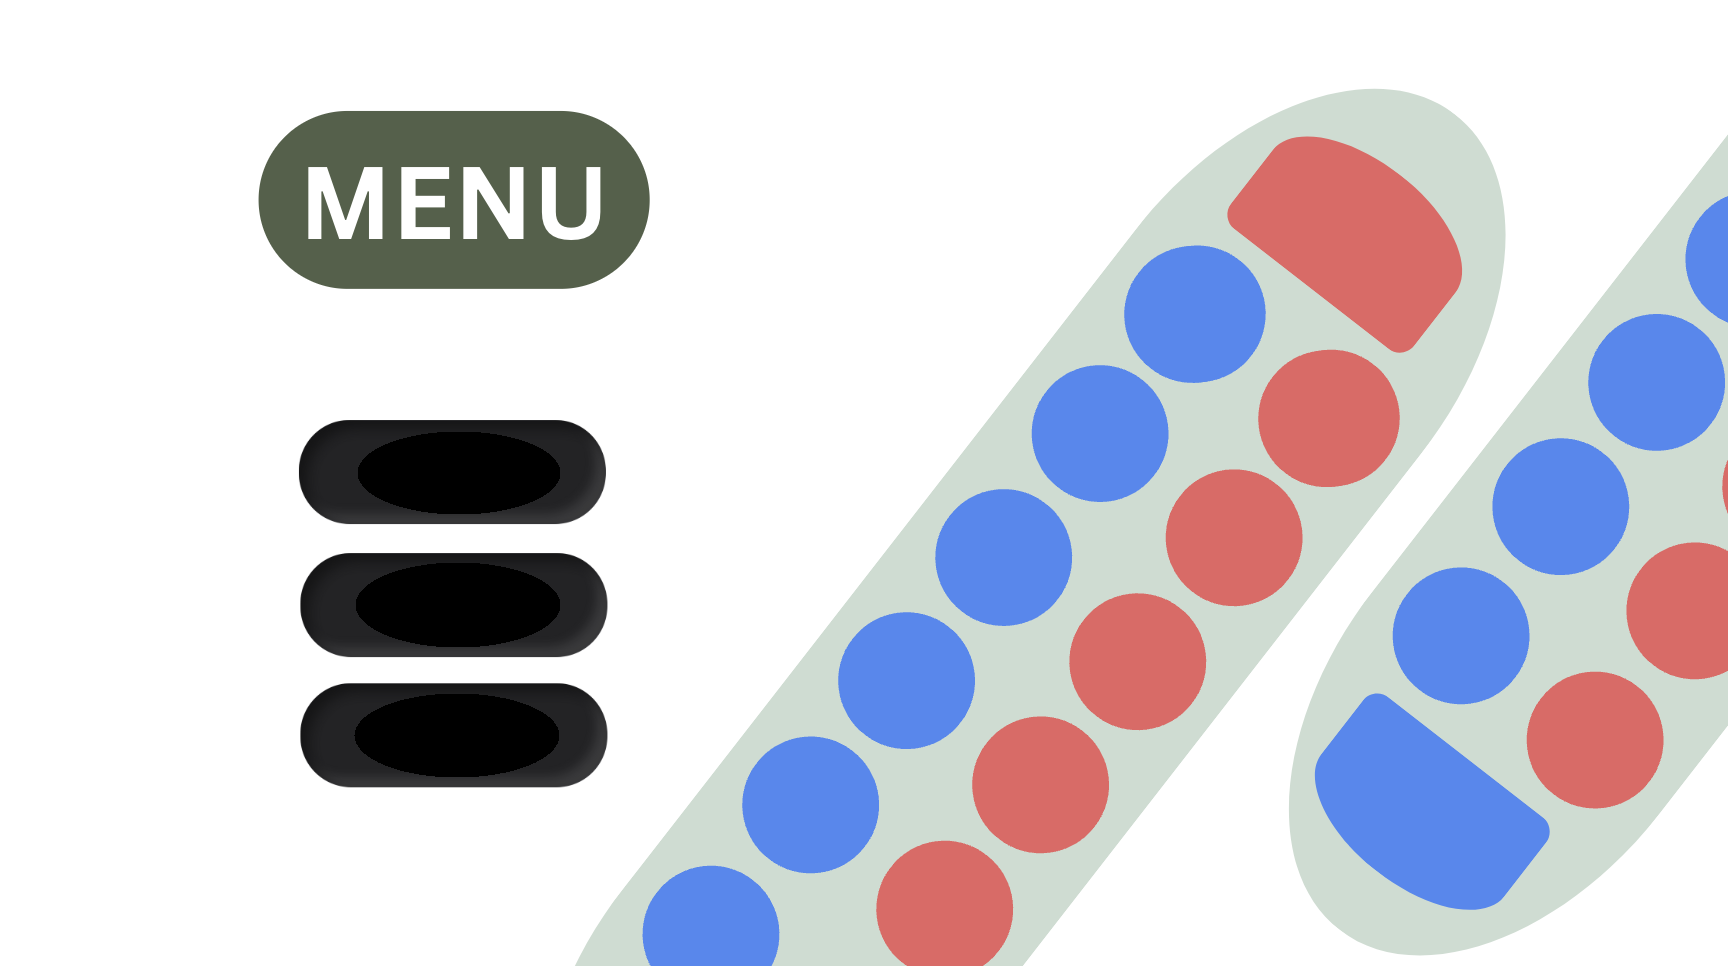
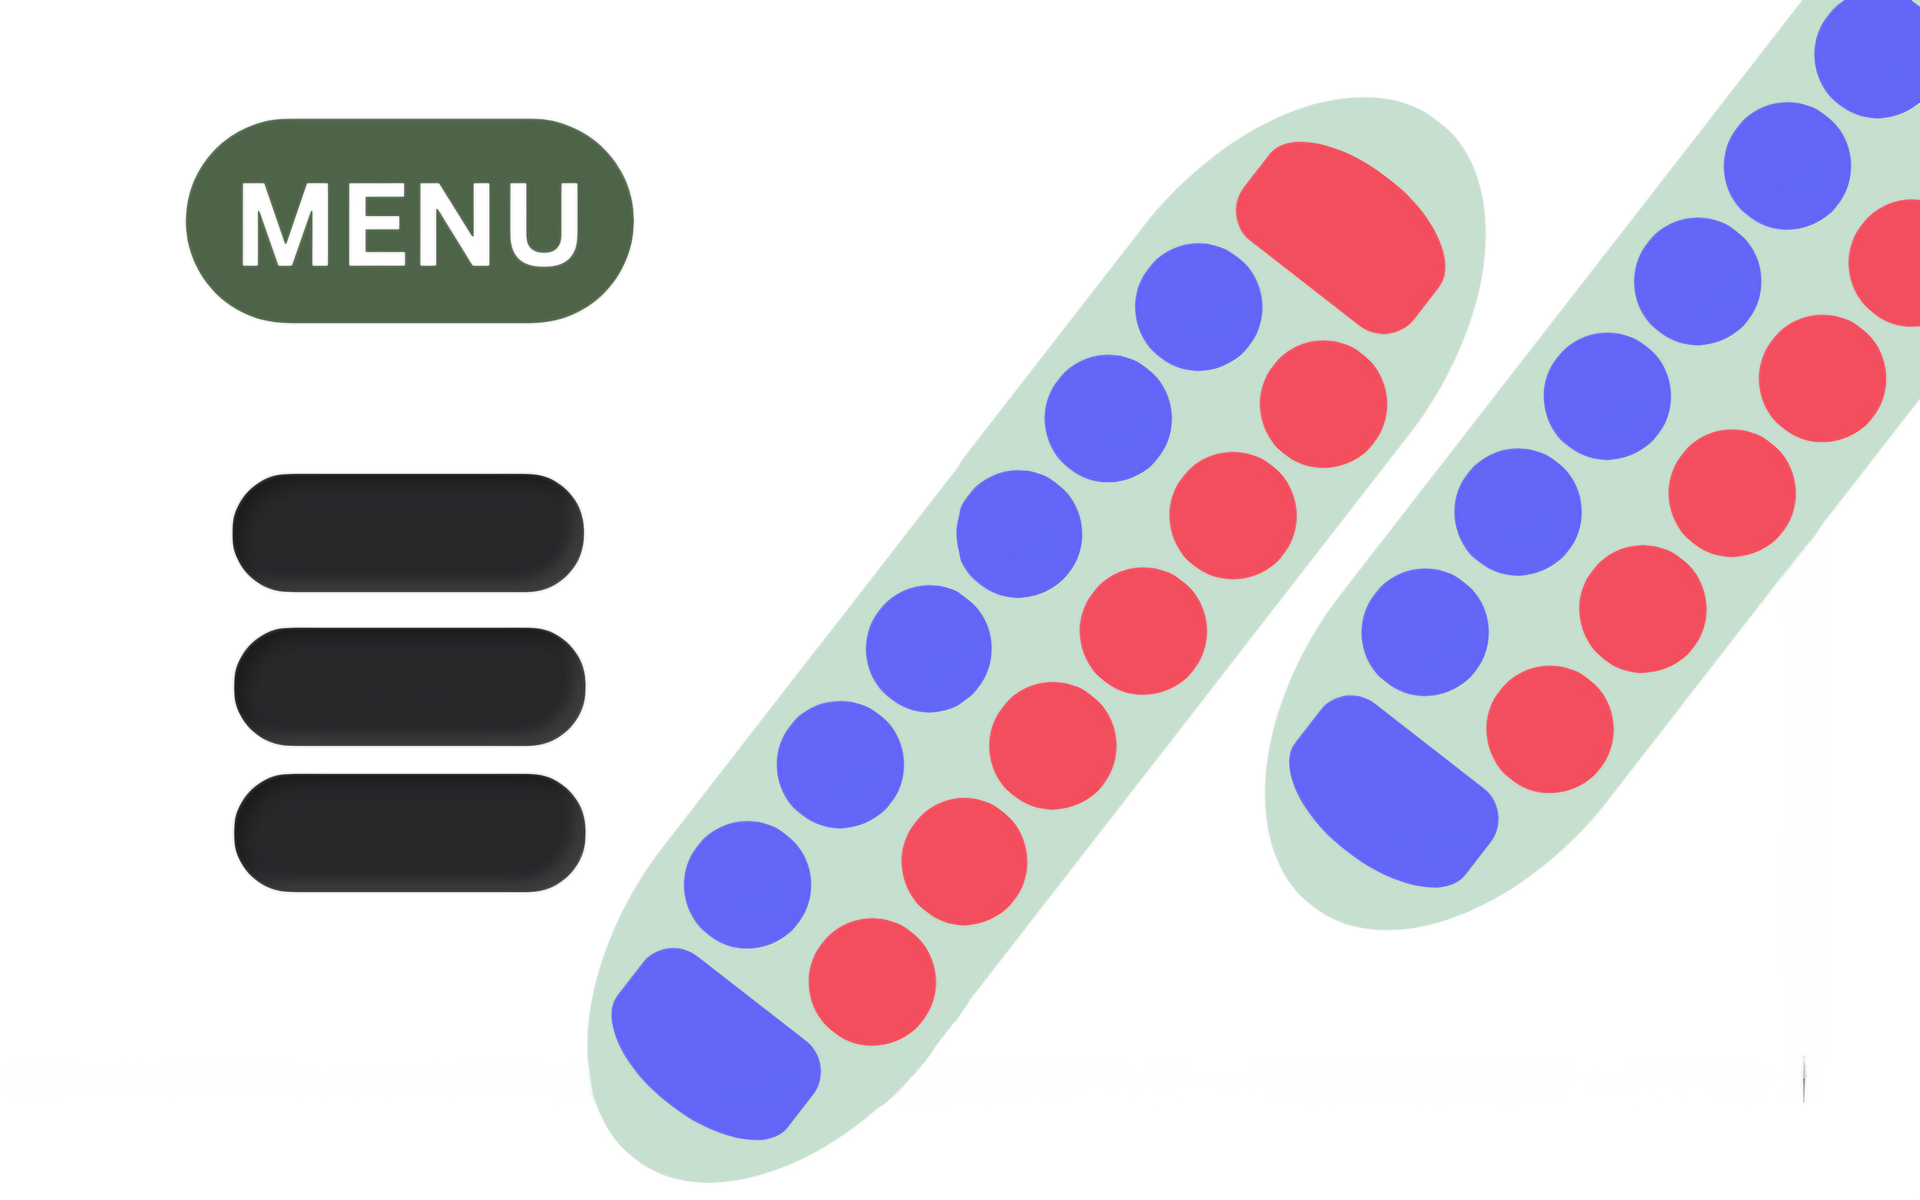
Send Piccc!!

diff --git a/bS/src/bS/BohnenView/GameBoard.java b/bS/src/bS/BohnenView/GameBoard.java
@@ -117,7 +117,7 @@ public class GameBoard extends JFrame implements ICustomButton{
             holeButtonList.get(i).setFont(new Font("Arial", Font.BOLD, 40));
             holeButtonList.get(i).setBackground(Color.BLACK);
             holeButtonList.get(i).setForeground(Color.WHITE);
-            holeButtonList.get(i).setContentAreaFilled(false);
+            holeButtonList.get(i).setContentAreaFilled(true);
             holeButtonList.get(i).setBorderPainted(false);
             holeButtonList.get(i).setFocusPainted(false);
             holeButtonList.get(i).setOpaque(false);
@@ -153,7 +153,7 @@ public class GameBoard extends JFrame implements ICustomButton{
         inx0.setBounds(1440, 600, 80, 60);
 
         boardButtonMap = new LinkedHashMap<String, JButton>();
-        boardButtonMap.put("restartBtn", restartBtn = new JButton("Retart"));
+        boardButtonMap.put("restartBtn", restartBtn = new JButton("Restart"));
         boardButtonMap.put("menuBtn", menuBtn = new JButton("Menu"));
         boardButtonMap.put("quitBtn", quitBtn = new JButton("Quit"));
         if (isDebug)
@@ -168,7 +168,7 @@ public class GameBoard extends JFrame implements ICustomButton{
             button.getValue().setFont(new Font("Arial", Font.BOLD, 40));
             button.getValue().setBackground(Color.BLACK);
             button.getValue().setForeground(Color.WHITE);
-            button.getValue().setContentAreaFilled(false);
+            button.getValue().setContentAreaFilled(true);
             button.getValue().setBorderPainted(false);
             button.getValue().setFocusPainted(false);
             button.getValue().setOpaque(false);

diff --git a/bS/src/bS/BohnenView/TitleScreen.java b/bS/src/bS/BohnenView/TitleScreen.java
@@ -67,7 +67,7 @@ public class TitleScreen extends JFrame implements ICustomButton{
             button.getValue().setFont(new Font("Arial", Font.BOLD, 50));
             button.getValue().setBackground(Color.BLACK);
             button.getValue().setForeground(Color.WHITE);
-            button.getValue().setContentAreaFilled(false);
+            button.getValue().setContentAreaFilled(true);
             button.getValue().setBorderPainted(false);
             button.getValue().setFocusPainted(false);
             button.getValue().setOpaque(false);
